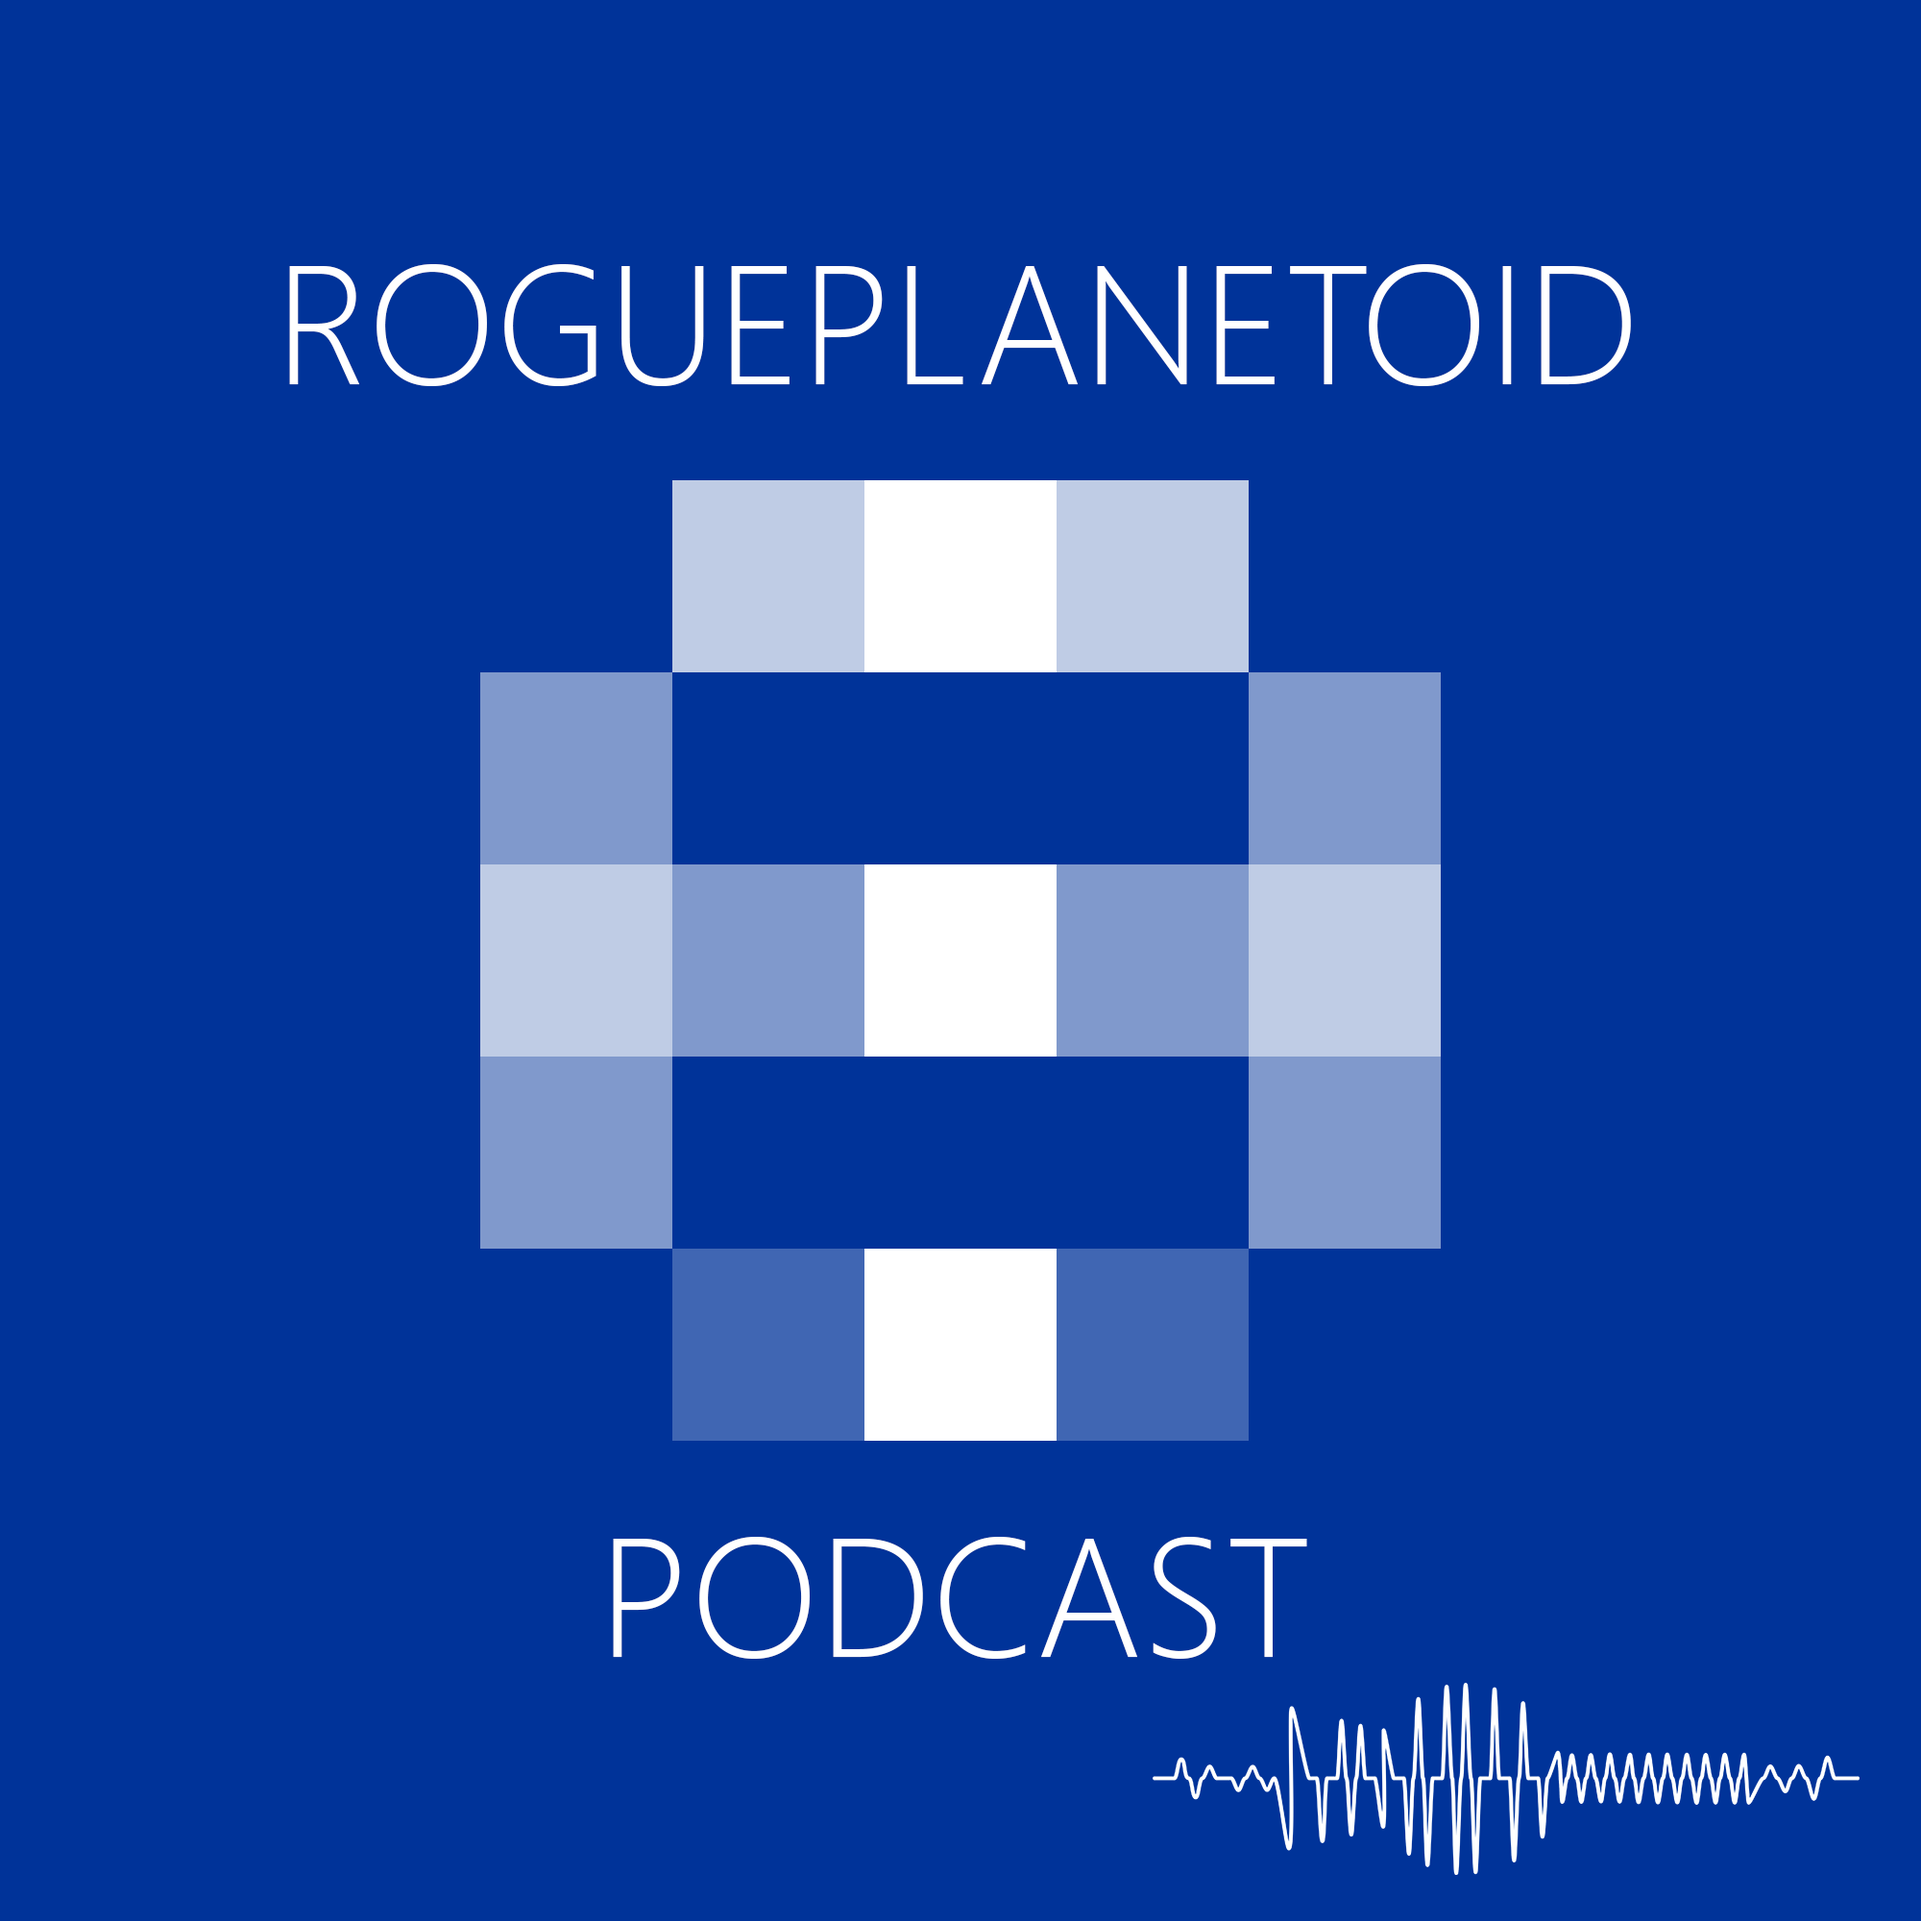
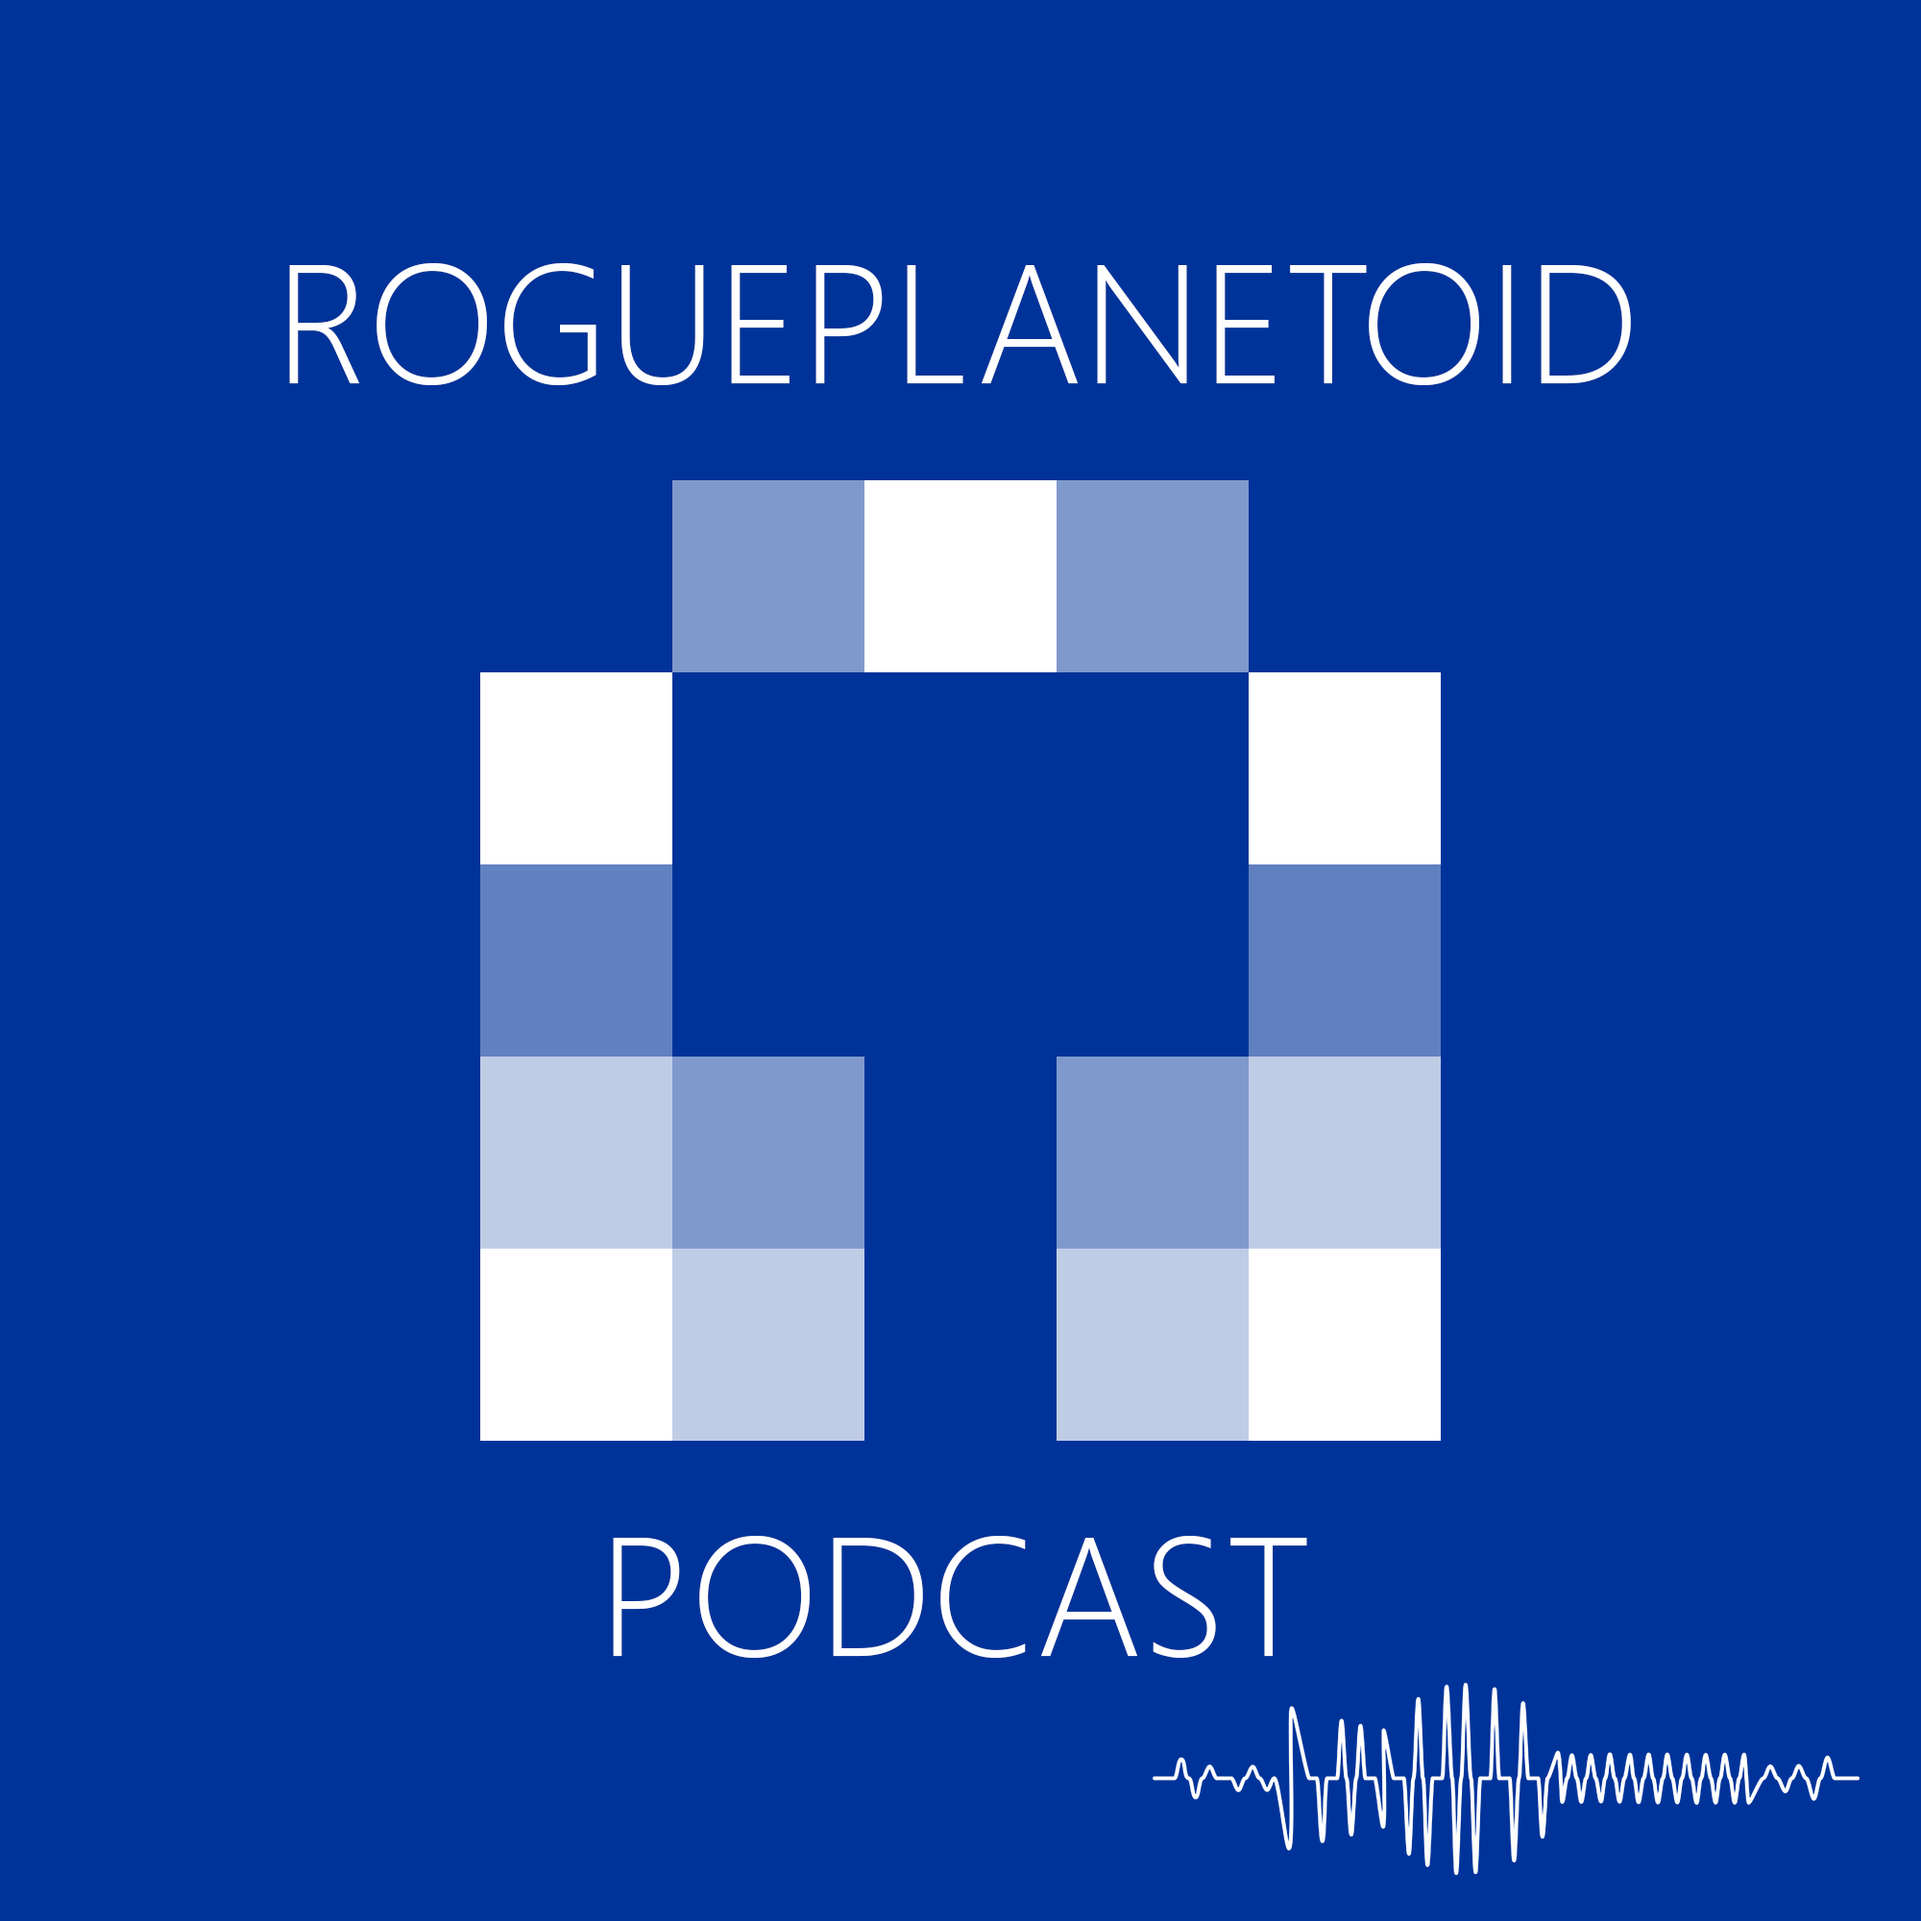
Update Podcast Branding

Changed region(s): [[0.248, 0.248, 0.775, 0.775]]

diff --git a/posts/index.html b/posts/index.html
@@ -92,6 +92,22 @@
                             <div class="text-start">
 
                                 <article class="blog-post">
+                                    <h2 class="blog-post-title mb-1">RoguePlanetoid Podcast Refresh</h2>
+                                    <p class="blog-post-meta">12th March 2023</p>                
+                                    <img src="assets/podcast.png" class="img-fluid" alt="RoguePlanetoid Podcast Refresh"/>
+                                    <p>
+                                        I've refreshed the <a href="../podcast/">RoguePlanetoid Podcast</a> logo to better represent a <strong>Podcast</strong> with a headphones inspired logo, 
+                                        this replaces the original abstract logo and am a lot happier with this version. There will be also updated social and related graphics that will be used 
+                                        for the next <strong>Episode</strong> which will be about <strong>Microsoft & AI</strong> so remember to check it out on April 1st 2023!
+                                    </p>
+                                    <p>
+                                        There's only been a few downloads so far for the <strong>Podcast</strong> but know that more people will listen to it in the future, and just like the brand
+                                        refresh I know I can improve on it each <strong>Episode</strong> along with having guests in the future, if you have any feedback then you can use
+                                        <a href="https://www.twitter.com/rogueplanetoid" target="_blank">Twitter</a> to contact me with any suggestions, ideas, guests or if you want to appear on the <strong>Podcast</strong> too.
+                                    </p>
+                                </article>
+
+                                <article class="blog-post">
                                     <h2 class="blog-post-title mb-1">RoguePlanetoid Weekly Update #9</h2>
                                     <p class="blog-post-meta">10th March 2023</p>                
                                     <img src="assets/rogueplanetoid.png" class="img-fluid" alt="RoguePlanetoid Weekly Update #9"/>
@@ -136,7 +152,7 @@
                                 <article class="blog-post">
                                     <h2 class="blog-post-title mb-1">RoguePlanetoid Podcast - Episode Two - Windows App SDK</h2>
                                     <p class="blog-post-meta">1st March 2023</p>                
-                                    <img src="assets/podcast.png" class="img-fluid" alt="oguePlanetoid Podcast - Episode Two - Windows App SDK"/>
+                                    <img src="assets/podcast.png" class="img-fluid" alt="RoguePlanetoid Podcast - Episode Two - Windows App SDK"/>
                                     <p>
                                         Today sees second <strong>Epsiode</strong> of the <strong>RoguePlanetoid Podcast</strong>
                                         about <a href="../podcast/episode-two/">Windows App SDK</a> which gives an overview of the <strong>Windows App SDK</strong> 
